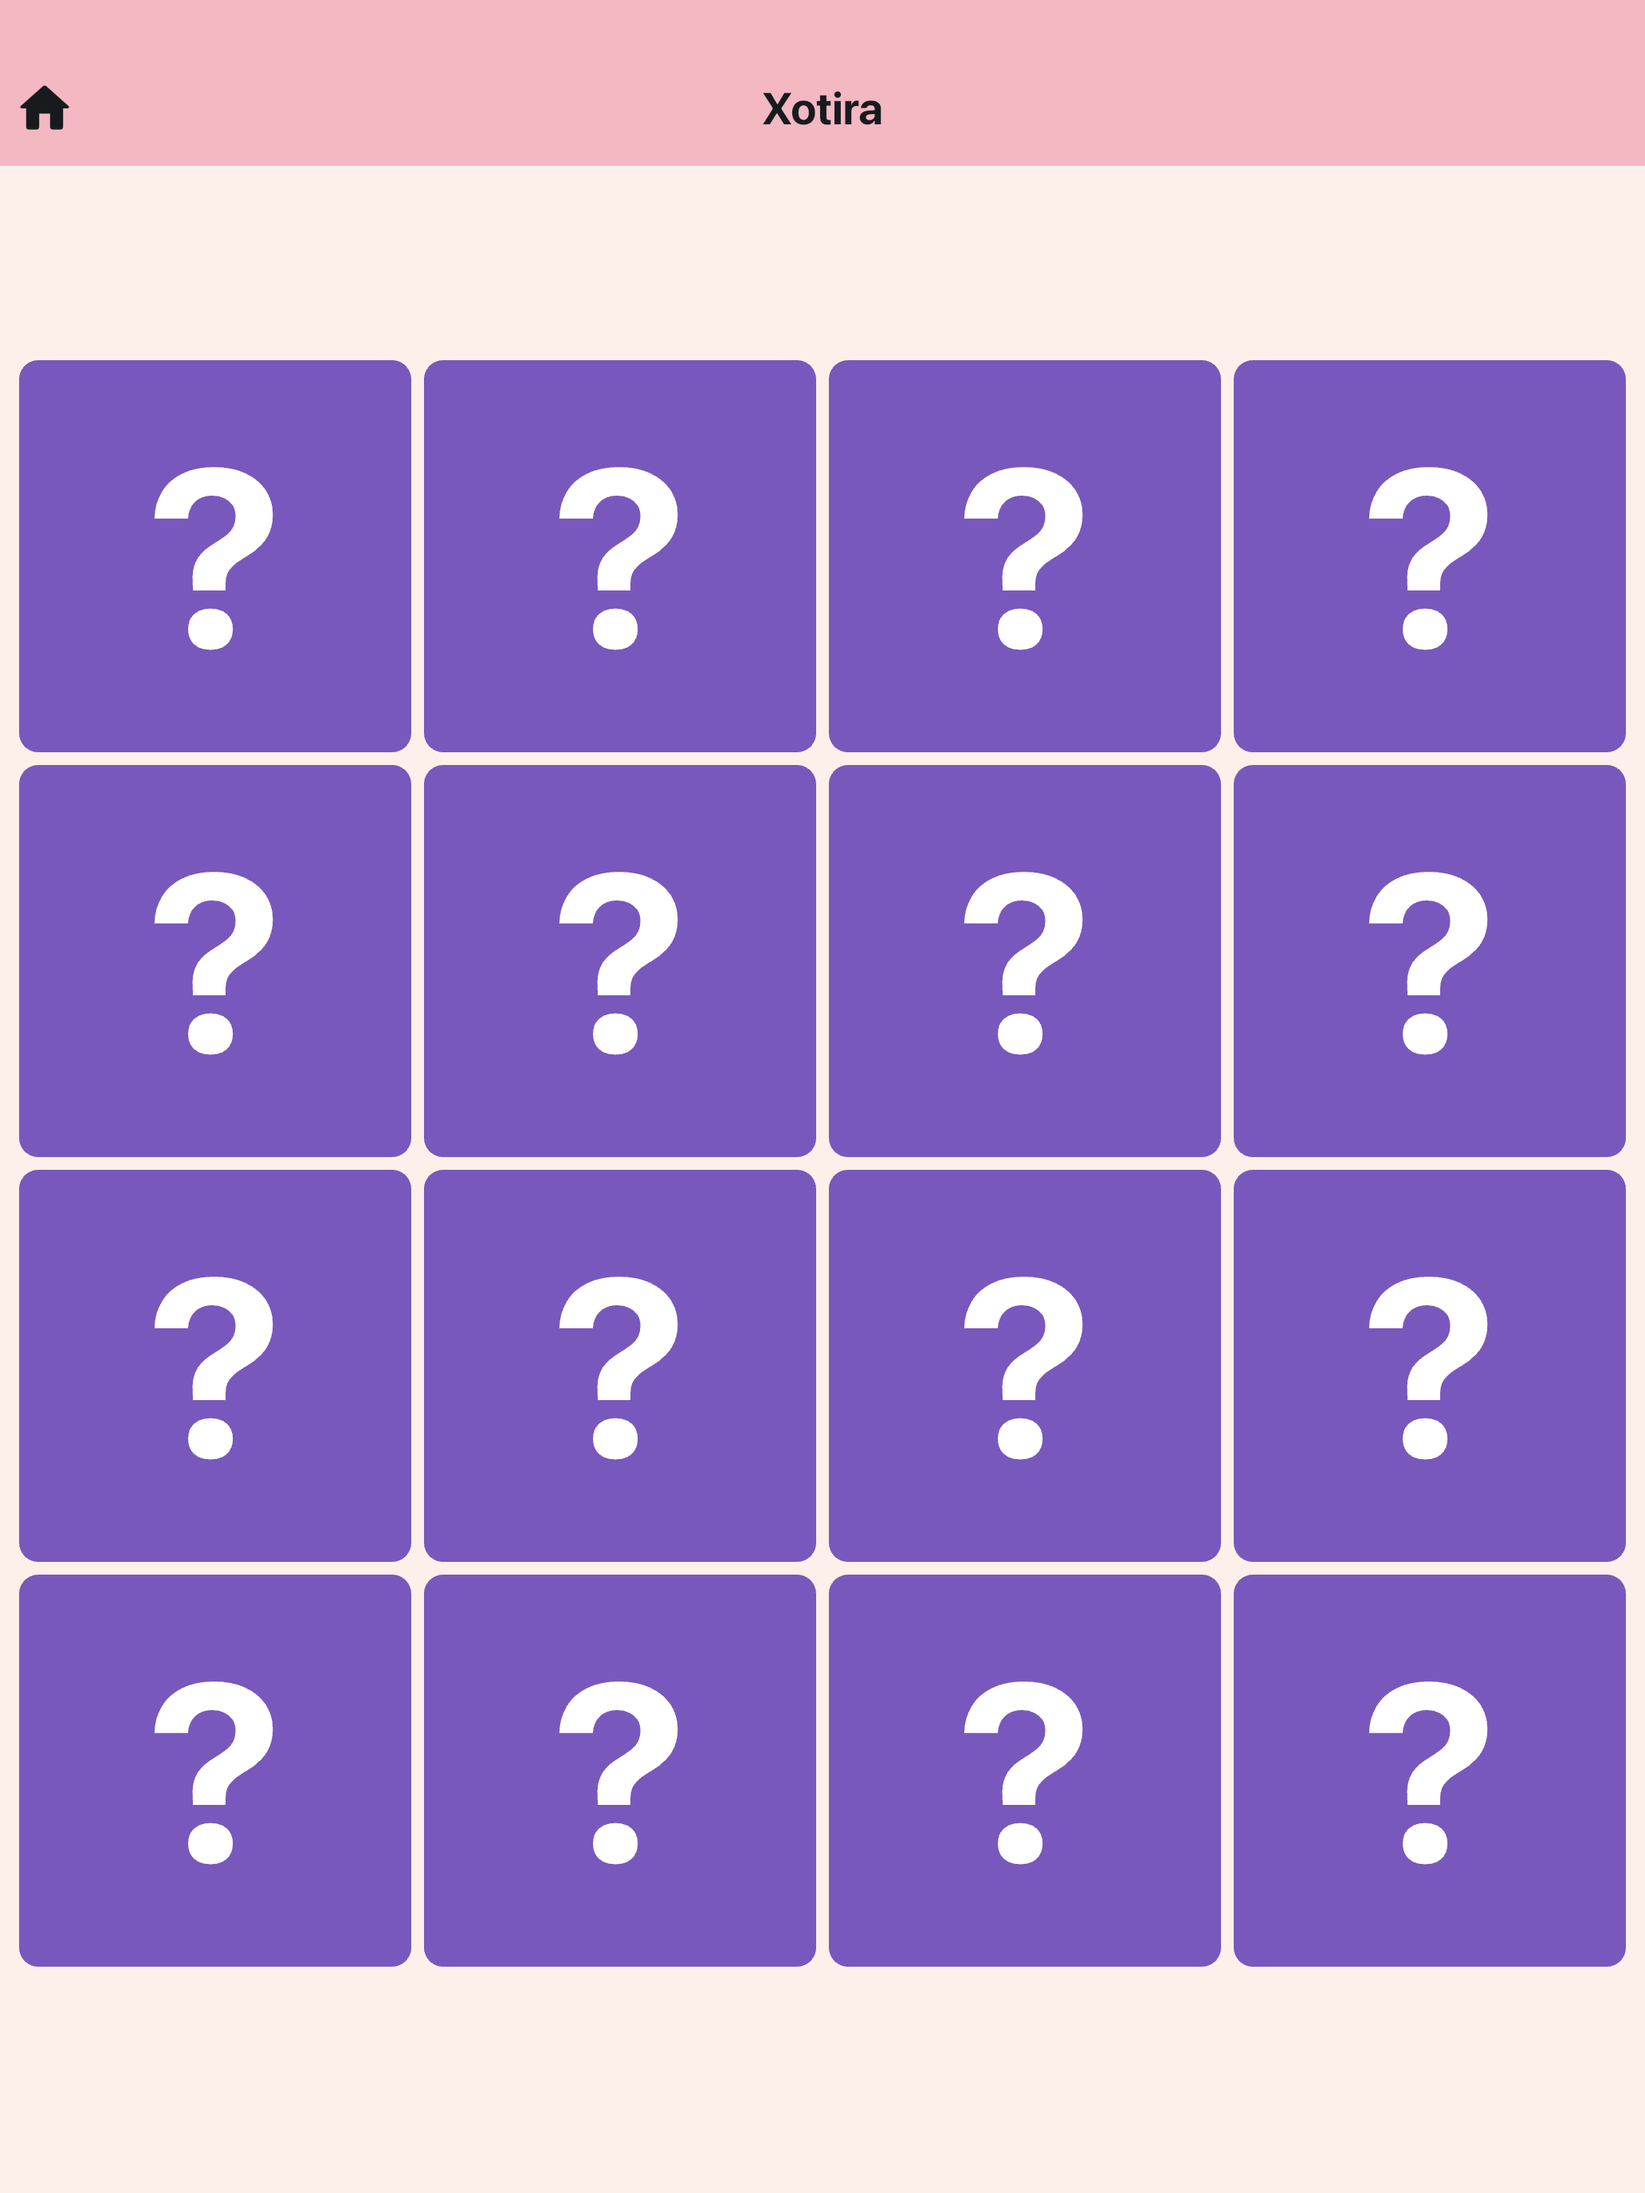
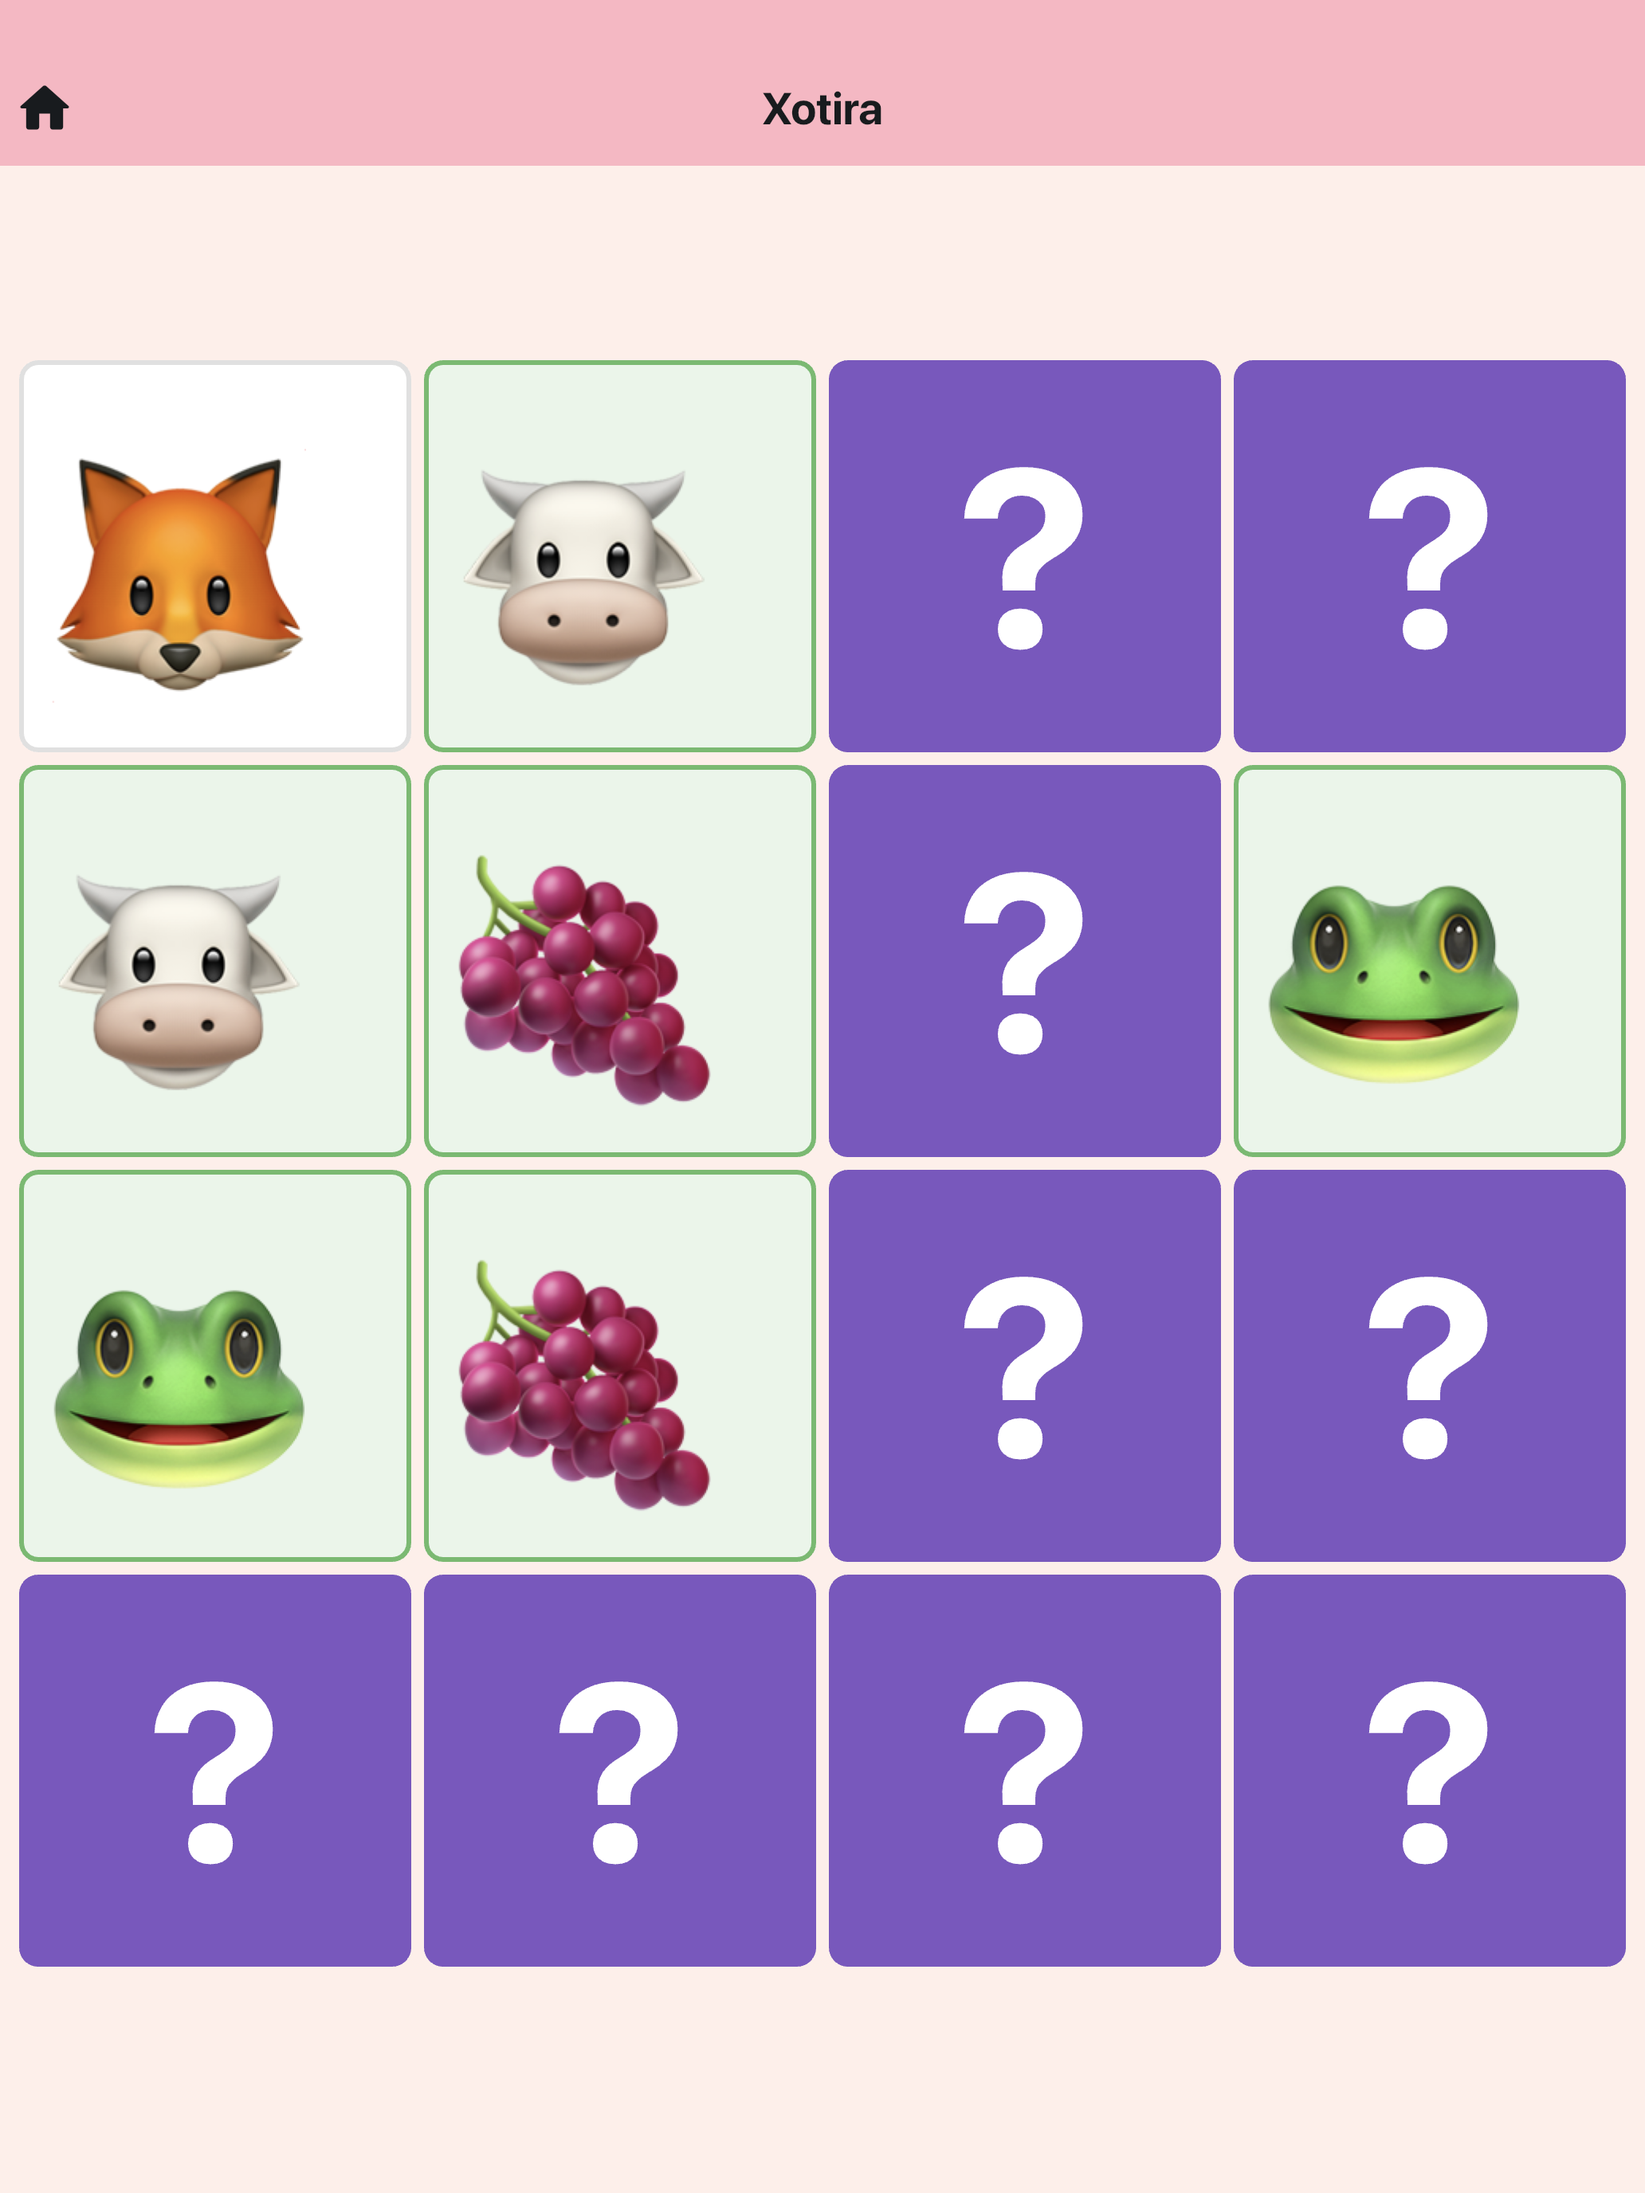
iPad do'kon skrinshotlari: xotira o'yini jarayoni va ota-ona hisoboti yangilandi

Changed region(s): [[0.0, 0.1562, 0.4961, 0.7188], [0.7442, 0.3438, 0.9922, 0.5312]]

diff --git a/integration_test/screenshots_test.dart b/integration_test/screenshots_test.dart
@@ -1,5 +1,6 @@
 import 'package:aqlli_dostlar/app.dart';
 import 'package:aqlli_dostlar/core/constants/age_group.dart';
+import 'package:aqlli_dostlar/core/constants/app_strings.dart';
 import 'package:aqlli_dostlar/core/router/app_router.dart';
 import 'package:aqlli_dostlar/core/storage/hive_storage.dart';
 import 'package:aqlli_dostlar/features/games/game_catalog.dart';
@@ -67,6 +68,60 @@ Future<void> _wait(WidgetTester tester, [int ms = 1500]) async {
   }
 }
 
+/// Xotira o'yinida [pairs] ta juftni topadi va yana bitta kartani ochiq qoldiradi —
+/// skrinshotda o'yin jarayoni ko'rinadi.
+Future<void> _playMemory(WidgetTester tester, {int pairs = 3}) async {
+  final cards = find.byWidgetPredicate((w) => w.runtimeType.toString() == '_FlipCard');
+  final count = cards.evaluate().length;
+  final known = <int, String>{};
+  final matched = <int>{};
+
+  Future<String> flip(int i) async {
+    await tester.tap(cards.at(i));
+    await _wait(tester, 450);
+    return tester
+        .widgetList<Text>(find.descendant(of: cards.at(i), matching: find.byType(Text)))
+        .first
+        .data!;
+  }
+
+  int? pairOf(int i) => known.entries
+      .where((e) => e.key != i && e.value == known[i] && !matched.contains(e.key))
+      .map((e) => e.key)
+      .firstOrNull;
+
+  var found = 0;
+  for (var i = 0; i < count && found < pairs; i++) {
+    if (matched.contains(i) || known.containsKey(i)) continue;
+    known[i] = await flip(i);
+    var j = pairOf(i);
+    if (j == null) {
+      // Juftini hali bilmaymiz — keyingi noma'lum kartani ochamiz.
+      j = List.generate(count, (k) => k)
+          .firstWhere((k) => k != i && !known.containsKey(k) && !matched.contains(k));
+      known[j] = await flip(j);
+      if (known[j] != known[i]) {
+        await _wait(tester, 1100); // Mos kelmagan kartalar yopiladi.
+        final pairForJ = pairOf(j);
+        if (pairForJ != null) {
+          await flip(pairForJ);
+          await flip(j);
+          matched.addAll([pairForJ, j]);
+          found++;
+        }
+        continue;
+      }
+    } else {
+      await flip(j);
+    }
+    matched.addAll([i, j]);
+    found++;
+  }
+
+  final open = List.generate(count, (k) => k).firstWhere((k) => !matched.contains(k));
+  await flip(open);
+}
+
 void main() {
   final binding = IntegrationTestWidgetsFlutterBinding.ensureInitialized();
 
@@ -93,7 +148,9 @@ void main() {
     final levels = find.byType(ChoiceCard);
     if (levels.evaluate().isNotEmpty) {
       await tester.tap(levels.first);
+      await _wait(tester, 800);
     }
+    await _playMemory(tester);
     await shot('02_oyin');
 
     router.go(
@@ -115,6 +172,12 @@ void main() {
 
     container.read(parentUnlockedProvider.notifier).unlock();
     router.go(AppRoutes.parentPanel);
+    await _wait(tester);
+    // Hisobot bo'limini ekran tepasiga olib chiqamiz.
+    await Scrollable.ensureVisible(
+      tester.element(find.text(AppStrings.reportTitle)),
+      alignment: 0,
+    );
     await shot('06_ota_ona_hisoboti');
   });
 }
